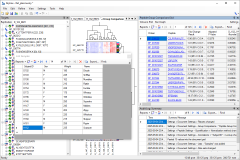
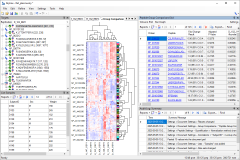
- make ListGridForm persist and restore correctly from .sky.view files - re-record covershot PNG files with correct layout

diff --git a/pwiz_tools/Skyline/Skyline.cs b/pwiz_tools/Skyline/Skyline.cs
@@ -4386,16 +4386,33 @@ namespace pwiz.Skyline
 
         public void ShowList(string listName)
         {
-            var listForm = Application.OpenForms.OfType<ListGridForm>()
-                .FirstOrDefault(form => form.ListName == listName);
+            var listForm = FindListForm(listName);
             if (listForm != null)
             {
                 listForm.Activate();
                 return;
             }
-            listForm = new ListGridForm(this, listName);
+            listForm = CreateListForm(listName);
             var rectFloat = GetFloatingRectangleForNewWindow();
             listForm.Show(dockPanel, rectFloat);
+        }
+
+        private ListGridForm FindListForm(string listName)
+        {
+            return Application.OpenForms.OfType<ListGridForm>()
+                .FirstOrDefault(form => form.ListName == listName);
+        }
+
+        private ListGridForm CreateListForm(string listName)
+        {
+            if (string.IsNullOrEmpty(listName))
+            {
+                var listDefault = Document.Settings.DataSettings.Lists.FirstOrDefault();
+                if (listDefault == null)
+                    return null;
+                listName = listDefault.ListName;
+            }
+            return FindListForm(listName) ?? new ListGridForm(this, listName);
         }
 
         public void SelectElement(ElementRef elementRef)

diff --git a/pwiz_tools/Skyline/TestTutorial/LiveReportsTutorialTest.cs b/pwiz_tools/Skyline/TestTutorial/LiveReportsTutorialTest.cs
@@ -71,11 +71,16 @@ namespace pwiz.SkylineTestTutorial
             AuditLogList.IgnoreTestChecks = false;
         }
 
+        private string GetTestPath(string relativePath)
+        {
+            return TestFilesDirs[0].GetTestPath(relativePath);
+        }
+
         protected override void DoTest()
         {
             RunUI(()=>
             {
-                SkylineWindow.OpenFile(TestFilesDirs[0].GetTestPath("Rat_plasma.sky"));
+                SkylineWindow.OpenFile(GetTestPath("Rat_plasma.sky"));
                 SkylineWindow.ShowAuditLog();
             });
             var auditLogForm = FindOpenForm<AuditLogForm>();
@@ -261,7 +266,7 @@ namespace pwiz.SkylineTestTutorial
             Assert.IsNotNull(listGridForm);
             WaitForConditionUI(() => listGridForm.IsComplete && listGridForm.DataGridView.Rows.Count > 0);
             PauseForScreenShot(listGridForm, "List: Samples grid view");
-            var sampleInfoTsvLines = File.ReadAllLines(TestFilesDirs[0].GetTestPath("SampleInfo.txt")).Skip(1).ToList();
+            var sampleInfoTsvLines = File.ReadAllLines(GetTestPath("SampleInfo.txt")).Skip(1).ToList();
             Assert.AreEqual(14, sampleInfoTsvLines.Count);
             SetClipboardText(TextUtil.LineSeparate(sampleInfoTsvLines));
             RunUI(() =>

diff --git a/pwiz_tools/Skyline/SkylineGraphs.cs b/pwiz_tools/Skyline/SkylineGraphs.cs
@@ -54,6 +54,7 @@ using System.Globalization;
 using System.IO;
 using System.Linq;
 using System.Windows.Forms;
+using pwiz.Skyline.Controls.Lists;
 using ZedGraph;
 using PeptideDocNode = pwiz.Skyline.Model.PeptideDocNode;
 using User32 = pwiz.Common.SystemUtil.PInvoke.User32;
@@ -663,6 +664,10 @@ namespace pwiz.Skyline
             if (Equals(persistentString, typeof(AuditLogForm).ToString()))
             {
                 return _auditLogForm ?? CreateAuditLogForm();
+            }
+            if (persistentString.StartsWith(typeof(ListGridForm).ToString()))
+            {
+                return CreateListForm(ListGridForm.GetListName(persistentString));
             }
             if (Equals(persistentString, typeof(ImmediateWindow).ToString()))
             {

diff --git a/pwiz_tools/Skyline/Controls/Lists/ListGridForm.cs b/pwiz_tools/Skyline/Controls/Lists/ListGridForm.cs
@@ -67,5 +67,18 @@ namespace pwiz.Skyline.Controls.Lists
                 return new DataGridId(DataGridType.LIST, ListName);
             }
         }
+
+        protected override string GetPersistentString()
+        {
+            return base.GetPersistentString() + '|' + ListName;
+        }
+
+        public static string GetListName(string persistentString)
+        {
+            string[] values = persistentString.Split('|');
+            if (values.Length == 2)
+                return values[1];
+            return null;
+        }
     }
 }
